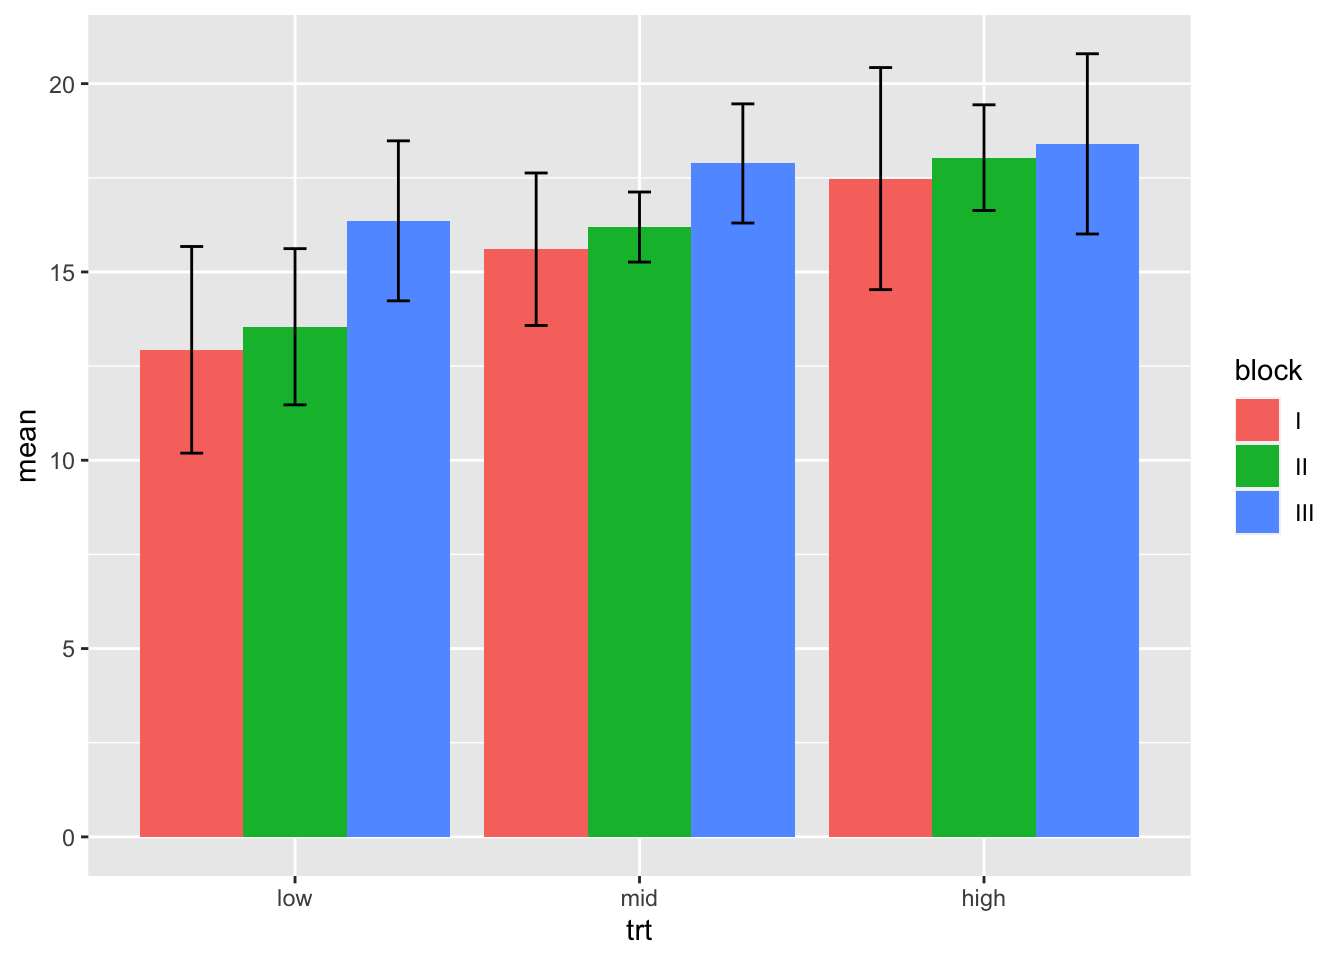
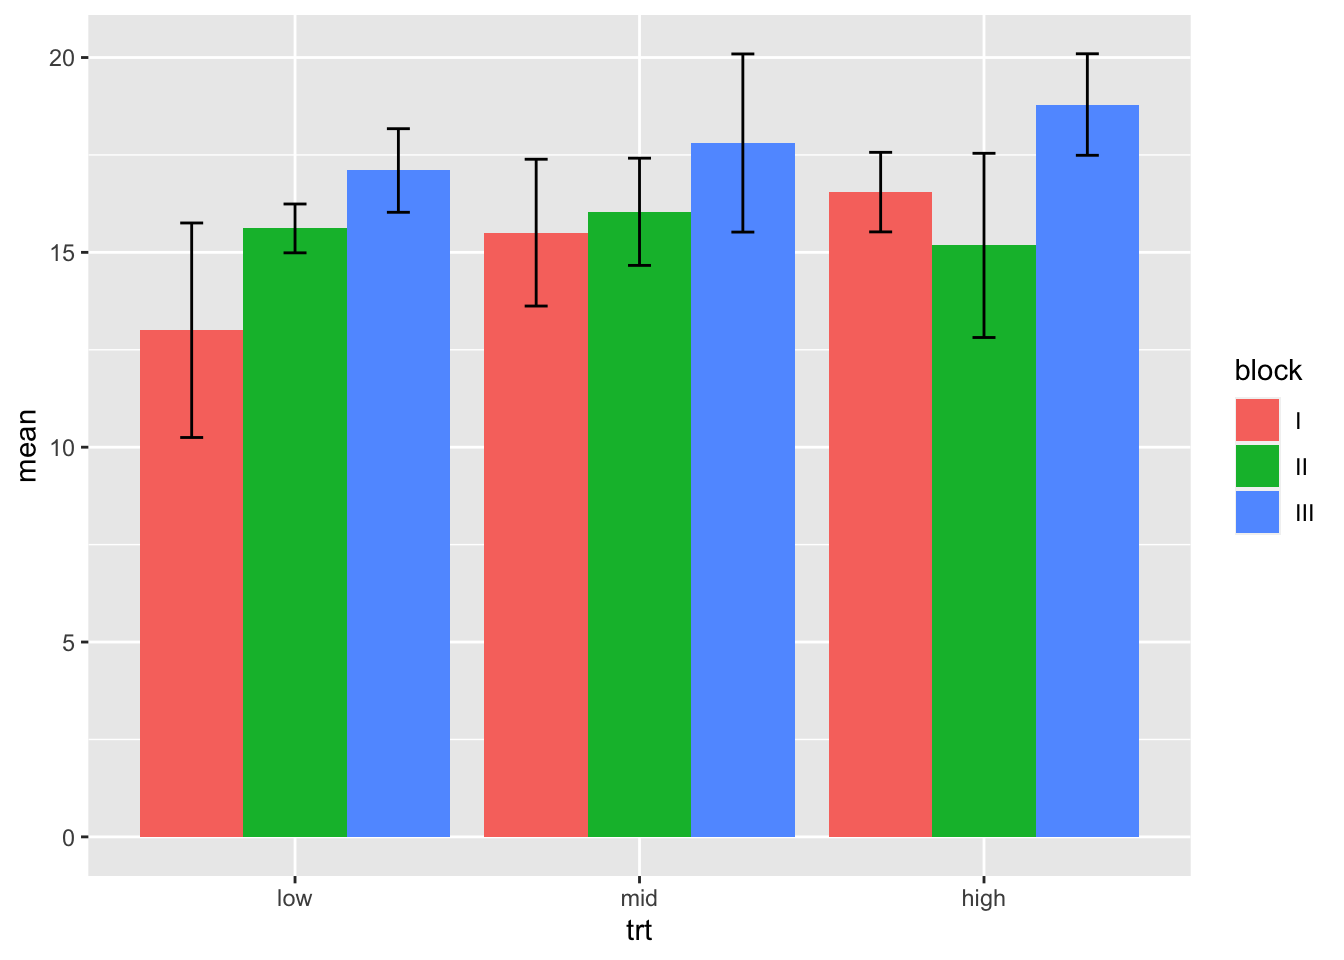
better figures

diff --git a/docs/app-example-analysis.html b/docs/app-example-analysis.html
@@ -538,7 +538,7 @@ code span.wa { color: #60a0b0; font-weight: bold; font-style: italic; } /* Warni
 </header><div class="cell">
 
 </div>
-<p><em>Version vom October 31, 2022 um 19:10:28</em></p>
+<p><em>Version vom October 31, 2022 um 19:12:59</em></p>
 <section id="genutzte-r-pakete-für-das-kapitel" class="level2" data-number="A.1"><h2 data-number="A.1" class="anchored" data-anchor-id="genutzte-r-pakete-für-das-kapitel">
 <span class="header-section-number">A.1</span> Genutzte R Pakete für das Kapitel</h2>
 <p>Wir wollen folgende R Pakete in diesem Kapitel nutzen.</p>
@@ -673,217 +673,217 @@ X-squared = 13.8689, df = 3, p-value = 0.0030892</code></pre>
 <td style="text-align: center;">low</td>
 <td style="text-align: center;">I</td>
 <td style="text-align: center;">1</td>
-<td style="text-align: center;">10.55</td>
+<td style="text-align: center;">8.96</td>
 </tr>
 <tr class="even">
 <td style="text-align: center;">low</td>
 <td style="text-align: center;">I</td>
 <td style="text-align: center;">2</td>
-<td style="text-align: center;">16.01</td>
+<td style="text-align: center;">14.50</td>
 </tr>
 <tr class="odd">
 <td style="text-align: center;">low</td>
 <td style="text-align: center;">I</td>
 <td style="text-align: center;">3</td>
-<td style="text-align: center;">10.69</td>
+<td style="text-align: center;">14.96</td>
 </tr>
 <tr class="even">
 <td style="text-align: center;">low</td>
 <td style="text-align: center;">I</td>
 <td style="text-align: center;">4</td>
-<td style="text-align: center;">14.48</td>
+<td style="text-align: center;">13.59</td>
 </tr>
 <tr class="odd">
 <td style="text-align: center;">low</td>
 <td style="text-align: center;">II</td>
 <td style="text-align: center;">1</td>
-<td style="text-align: center;">11.47</td>
+<td style="text-align: center;">16.54</td>
 </tr>
 <tr class="even">
 <td style="text-align: center;">low</td>
 <td style="text-align: center;">II</td>
 <td style="text-align: center;">2</td>
+<td style="text-align: center;">15.46</td>
+</tr>
+<tr class="odd">
+<td style="text-align: center;">low</td>
+<td style="text-align: center;">II</td>
+<td style="text-align: center;">3</td>
+<td style="text-align: center;">15.17</td>
+</tr>
+<tr class="even">
+<td style="text-align: center;">low</td>
+<td style="text-align: center;">II</td>
+<td style="text-align: center;">4</td>
+<td style="text-align: center;">15.30</td>
+</tr>
+<tr class="odd">
+<td style="text-align: center;">low</td>
+<td style="text-align: center;">III</td>
+<td style="text-align: center;">1</td>
+<td style="text-align: center;">16.26</td>
+</tr>
+<tr class="even">
+<td style="text-align: center;">low</td>
+<td style="text-align: center;">III</td>
+<td style="text-align: center;">2</td>
+<td style="text-align: center;">17.99</td>
+</tr>
+<tr class="odd">
+<td style="text-align: center;">low</td>
+<td style="text-align: center;">III</td>
+<td style="text-align: center;">3</td>
+<td style="text-align: center;">18.06</td>
+</tr>
+<tr class="even">
+<td style="text-align: center;">low</td>
+<td style="text-align: center;">III</td>
+<td style="text-align: center;">4</td>
 <td style="text-align: center;">16.09</td>
 </tr>
 <tr class="odd">
-<td style="text-align: center;">low</td>
-<td style="text-align: center;">II</td>
-<td style="text-align: center;">3</td>
-<td style="text-align: center;">14.31</td>
-</tr>
-<tr class="even">
-<td style="text-align: center;">low</td>
-<td style="text-align: center;">II</td>
-<td style="text-align: center;">4</td>
-<td style="text-align: center;">12.31</td>
-</tr>
-<tr class="odd">
-<td style="text-align: center;">low</td>
-<td style="text-align: center;">III</td>
-<td style="text-align: center;">1</td>
-<td style="text-align: center;">18.57</td>
-</tr>
-<tr class="even">
-<td style="text-align: center;">low</td>
-<td style="text-align: center;">III</td>
-<td style="text-align: center;">2</td>
-<td style="text-align: center;">15.95</td>
-</tr>
-<tr class="odd">
-<td style="text-align: center;">low</td>
-<td style="text-align: center;">III</td>
-<td style="text-align: center;">3</td>
-<td style="text-align: center;">13.60</td>
-</tr>
-<tr class="even">
-<td style="text-align: center;">low</td>
-<td style="text-align: center;">III</td>
-<td style="text-align: center;">4</td>
-<td style="text-align: center;">17.30</td>
-</tr>
-<tr class="odd">
 <td style="text-align: center;">mid</td>
 <td style="text-align: center;">I</td>
 <td style="text-align: center;">1</td>
-<td style="text-align: center;">15.98</td>
+<td style="text-align: center;">13.88</td>
 </tr>
 <tr class="even">
 <td style="text-align: center;">mid</td>
 <td style="text-align: center;">I</td>
 <td style="text-align: center;">2</td>
-<td style="text-align: center;">13.18</td>
+<td style="text-align: center;">15.36</td>
 </tr>
 <tr class="odd">
 <td style="text-align: center;">mid</td>
 <td style="text-align: center;">I</td>
 <td style="text-align: center;">3</td>
-<td style="text-align: center;">15.18</td>
+<td style="text-align: center;">18.18</td>
 </tr>
 <tr class="even">
 <td style="text-align: center;">mid</td>
 <td style="text-align: center;">I</td>
 <td style="text-align: center;">4</td>
-<td style="text-align: center;">18.08</td>
+<td style="text-align: center;">14.60</td>
 </tr>
 <tr class="odd">
 <td style="text-align: center;">mid</td>
 <td style="text-align: center;">II</td>
 <td style="text-align: center;">1</td>
-<td style="text-align: center;">15.97</td>
+<td style="text-align: center;">16.61</td>
 </tr>
 <tr class="even">
 <td style="text-align: center;">mid</td>
 <td style="text-align: center;">II</td>
 <td style="text-align: center;">2</td>
-<td style="text-align: center;">15.12</td>
+<td style="text-align: center;">17.72</td>
 </tr>
 <tr class="odd">
 <td style="text-align: center;">mid</td>
 <td style="text-align: center;">II</td>
 <td style="text-align: center;">3</td>
-<td style="text-align: center;">16.31</td>
+<td style="text-align: center;">14.91</td>
 </tr>
 <tr class="even">
 <td style="text-align: center;">mid</td>
 <td style="text-align: center;">II</td>
-<td style="text-align: center;">4</td>
-<td style="text-align: center;">17.37</td>
-</tr>
-<tr class="odd">
-<td style="text-align: center;">mid</td>
-<td style="text-align: center;">III</td>
-<td style="text-align: center;">1</td>
-<td style="text-align: center;">15.95</td>
-</tr>
-<tr class="even">
-<td style="text-align: center;">mid</td>
-<td style="text-align: center;">III</td>
-<td style="text-align: center;">2</td>
-<td style="text-align: center;">19.71</td>
-</tr>
-<tr class="odd">
-<td style="text-align: center;">mid</td>
-<td style="text-align: center;">III</td>
-<td style="text-align: center;">3</td>
-<td style="text-align: center;">18.39</td>
-</tr>
-<tr class="even">
-<td style="text-align: center;">mid</td>
-<td style="text-align: center;">III</td>
-<td style="text-align: center;">4</td>
-<td style="text-align: center;">17.48</td>
-</tr>
-<tr class="odd">
-<td style="text-align: center;">high</td>
-<td style="text-align: center;">I</td>
-<td style="text-align: center;">1</td>
-<td style="text-align: center;">20.95</td>
-</tr>
-<tr class="even">
-<td style="text-align: center;">high</td>
-<td style="text-align: center;">I</td>
-<td style="text-align: center;">2</td>
-<td style="text-align: center;">18.90</td>
-</tr>
-<tr class="odd">
-<td style="text-align: center;">high</td>
-<td style="text-align: center;">I</td>
-<td style="text-align: center;">3</td>
-<td style="text-align: center;">15.14</td>
-</tr>
-<tr class="even">
-<td style="text-align: center;">high</td>
-<td style="text-align: center;">I</td>
 <td style="text-align: center;">4</td>
 <td style="text-align: center;">14.92</td>
 </tr>
 <tr class="odd">
+<td style="text-align: center;">mid</td>
+<td style="text-align: center;">III</td>
+<td style="text-align: center;">1</td>
+<td style="text-align: center;">17.58</td>
+</tr>
+<tr class="even">
+<td style="text-align: center;">mid</td>
+<td style="text-align: center;">III</td>
+<td style="text-align: center;">2</td>
+<td style="text-align: center;">16.88</td>
+</tr>
+<tr class="odd">
+<td style="text-align: center;">mid</td>
+<td style="text-align: center;">III</td>
+<td style="text-align: center;">3</td>
+<td style="text-align: center;">21.04</td>
+</tr>
+<tr class="even">
+<td style="text-align: center;">mid</td>
+<td style="text-align: center;">III</td>
+<td style="text-align: center;">4</td>
+<td style="text-align: center;">15.73</td>
+</tr>
+<tr class="odd">
+<td style="text-align: center;">high</td>
+<td style="text-align: center;">I</td>
+<td style="text-align: center;">1</td>
+<td style="text-align: center;">17.81</td>
+</tr>
+<tr class="even">
+<td style="text-align: center;">high</td>
+<td style="text-align: center;">I</td>
+<td style="text-align: center;">2</td>
+<td style="text-align: center;">15.33</td>
+</tr>
+<tr class="odd">
+<td style="text-align: center;">high</td>
+<td style="text-align: center;">I</td>
+<td style="text-align: center;">3</td>
+<td style="text-align: center;">16.34</td>
+</tr>
+<tr class="even">
+<td style="text-align: center;">high</td>
+<td style="text-align: center;">I</td>
+<td style="text-align: center;">4</td>
+<td style="text-align: center;">16.70</td>
+</tr>
+<tr class="odd">
 <td style="text-align: center;">high</td>
 <td style="text-align: center;">II</td>
 <td style="text-align: center;">1</td>
-<td style="text-align: center;">16.77</td>
+<td style="text-align: center;">16.01</td>
 </tr>
 <tr class="even">
 <td style="text-align: center;">high</td>
 <td style="text-align: center;">II</td>
 <td style="text-align: center;">2</td>
-<td style="text-align: center;">19.60</td>
+<td style="text-align: center;">12.10</td>
 </tr>
 <tr class="odd">
 <td style="text-align: center;">high</td>
 <td style="text-align: center;">II</td>
 <td style="text-align: center;">3</td>
-<td style="text-align: center;">16.94</td>
+<td style="text-align: center;">14.88</td>
 </tr>
 <tr class="even">
 <td style="text-align: center;">high</td>
 <td style="text-align: center;">II</td>
 <td style="text-align: center;">4</td>
-<td style="text-align: center;">18.84</td>
+<td style="text-align: center;">17.73</td>
 </tr>
 <tr class="odd">
 <td style="text-align: center;">high</td>
 <td style="text-align: center;">III</td>
 <td style="text-align: center;">1</td>
-<td style="text-align: center;">15.46</td>
+<td style="text-align: center;">17.23</td>
 </tr>
 <tr class="even">
 <td style="text-align: center;">high</td>
 <td style="text-align: center;">III</td>
 <td style="text-align: center;">2</td>
-<td style="text-align: center;">19.80</td>
+<td style="text-align: center;">20.30</td>
 </tr>
 <tr class="odd">
 <td style="text-align: center;">high</td>
 <td style="text-align: center;">III</td>
 <td style="text-align: center;">3</td>
-<td style="text-align: center;">17.53</td>
+<td style="text-align: center;">19.26</td>
 </tr>
 <tr class="even">
 <td style="text-align: center;">high</td>
 <td style="text-align: center;">III</td>
 <td style="text-align: center;">4</td>
-<td style="text-align: center;">20.81</td>
+<td style="text-align: center;">18.39</td>
 </tr>
 </tbody>
 </table>
@@ -927,10 +927,10 @@ X-squared = 13.8689, df = 3, p-value = 0.0030892</code></pre>
 <pre><code>Analysis of Variance Table
 
 Response: rsp
-          Df   Sum Sq Mean Sq  F value     Pr(&gt;F)    
-trt        2  83.3496 41.6748 10.03313 0.00043654 ***
-block      2  31.3919 15.6959  3.77877 0.03399476 *  
-Residuals 31 128.7652  4.1537                        
+          Df   Sum Sq  Mean Sq F value    Pr(&gt;F)   
+trt        2  16.7271  8.36353 2.55610 0.0938577 . 
+block      2  55.5920 27.79601 8.49515 0.0011435 **
+Residuals 31 101.4316  3.27199                     
 ---
 Signif. codes:  0 '***' 0.001 '**' 0.01 '*' 0.05 '.' 0.1 ' ' 1</code></pre>
 </div>
@@ -948,9 +948,9 @@ Signif. codes:  0 '***' 0.001 '**' 0.01 '*' 0.05 '.' 0.1 ' ' 1</code></pre>
 <pre><code># A tibble: 3 × 3
   contrast   estimate adj.p.value
   &lt;chr&gt;         &lt;dbl&gt;       &lt;dbl&gt;
-1 mid - low      2.28      0.0264
-2 high - low     3.69      0.0003
-3 high - mid     1.41      0.222 </code></pre>
+1 mid - low     1.21       0.244 
+2 high - low    1.60       0.0929
+3 high - mid    0.388      0.859 </code></pre>
 </div>
 </div>
 </section><section id="gruppenvergleich-mit-der-emmeans-paket" class="level3" data-number="A.4.5"><h3 data-number="A.4.5" class="anchored" data-anchor-id="gruppenvergleich-mit-der-emmeans-paket">
@@ -967,9 +967,9 @@ Signif. codes:  0 '***' 0.001 '**' 0.01 '*' 0.05 '.' 0.1 ' ' 1</code></pre>
 <pre><code># A tibble: 3 × 3
   contrast   estimate adj.p.value
   &lt;chr&gt;         &lt;dbl&gt;       &lt;dbl&gt;
-1 low - mid     -2.28      0.0265
-2 low - high    -3.69      0.0003
-3 mid - high    -1.41      0.222 </code></pre>
+1 low - mid    -1.21       0.244 
+2 low - high   -1.60       0.0929
+3 mid - high   -0.388      0.859 </code></pre>
 </div>
 </div>
 </section></section><section id="auswertung-von-boniturnoten" class="level2" data-number="A.5"><h2 data-number="A.5" class="anchored" data-anchor-id="auswertung-von-boniturnoten">
